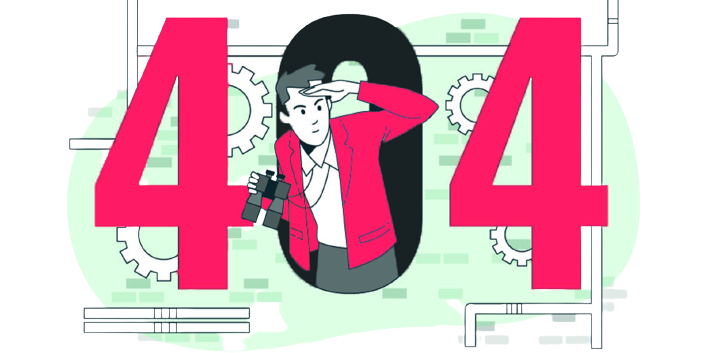
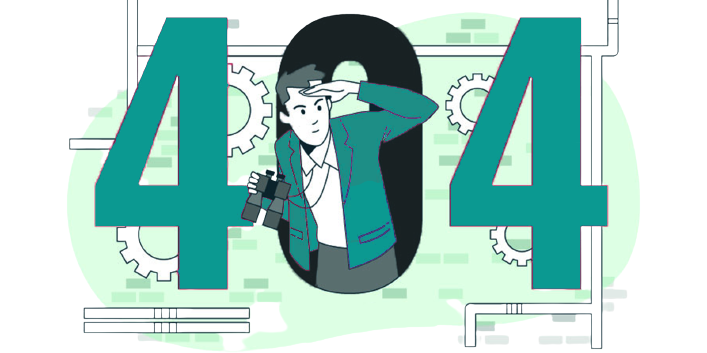
project update

Changed region(s): [[0.1245, 0.0312, 0.6223, 0.8414], [0.6223, 0.0312, 0.8713, 0.8414]]

diff --git a/src/data/projectData.js b/src/data/projectData.js
@@ -1,9 +1,6 @@
 import ReactRestaurantSinglePage from '../assets/project/react-restaurant-single-page.png';
 import ReactTmdbMovie from '../assets/project/react-tmdb-movie.png';
-import ReactCountryCovid19 from '../assets/project/react-country-covid19.png';
 import ReactFirebaseBlog from '../assets/project/react-firebase-blog.png';
-import BusinessUi1 from '../assets/project/business-ui-1.png';
-import BusinessUi2 from '../assets/project/business-ui-2.png';
 
 const projectData = [
     {
@@ -34,19 +31,6 @@ const projectData = [
     },
     {
         id:3,
-        image: ReactCountryCovid19,
-        tech: [
-            { name: 'React' },
-            { name: 'RapidAPI' },
-            { name: 'Tailwind' }
-        ],
-        title: 'Country Covid Statistic',
-        liveUrl: 'https://country-covid19-statistics.netlify.app/',
-        githubUrl: 'https://github.com/kadirula/country-covid-statistics',
-        homeShow: true
-    },
-    {
-        id:4,
         image: ReactFirebaseBlog,
         tech: [
             { name: 'React' },
@@ -56,32 +40,6 @@ const projectData = [
         title: 'Firebase Blog',
         liveUrl: 'https://firebase-react-blog-app.netlify.app/',
         githubUrl: 'https://github.com/kadirula/firebase-react-blog-app',
-        homeShow: true
-    },
-    {
-        id:5,
-        image: BusinessUi1,
-        tech: [
-            { name: 'Html' },
-            { name: 'Css' },
-            { name: 'JavaScript' }
-        ],
-        title: 'Business UI - 1',
-        liveUrl: 'https://project-business-ui1.netlify.app/',
-        githubUrl: 'https://github.com/kadirula/business-ui-1',
-        homeShow: true
-    },
-    {
-        id:6,
-        image: BusinessUi2,
-        tech: [
-            { name: 'Html' },
-            { name: 'Css' },
-            { name: 'JavaScript' }
-        ],
-        title: 'Business UI - 2',
-        liveUrl: 'https://project-business-ui2.netlify.app/',
-        githubUrl: 'https://github.com/kadirula/business-ui-2',
         homeShow: true
     },
 ];

diff --git a/src/data/workExperienceData.js b/src/data/workExperienceData.js
@@ -1,5 +1,17 @@
 const workExperiences = [
     {
+        title: 'Livasoft Yazılım A.Ş',
+        subtitle: 'Frontend Developer',
+        date: '10/2023 - Continue',
+        desc: 'Lorem ipsum dolor sit amet consectetur adipisicing elit. Deserunt commodi, sequi earum aut voluptates dolor! Lorem ipsum dolor sit amet consectetur adipisicing elit. Deserunt commodi, sequi earum aut voluptates dolor!'
+    },
+    {
+        title: 'Limonist Meta Teknoloji A.Ş',
+        subtitle: 'Frontend Developer',
+        date: '01/2023 - 10/2023',
+        desc: 'Lorem ipsum dolor sit amet consectetur adipisicing elit. Deserunt commodi, sequi earum aut voluptates dolor! Lorem ipsum dolor sit amet consectetur adipisicing elit. Deserunt commodi, sequi earum aut voluptates dolor!'
+    },
+    {
         title: 'Daynex İnternet Teknolojileri A.Ş.',
         subtitle: 'Frontend Developer',
         date: '07/2021 - 02/2022',

diff --git a/public/index.html b/public/index.html
@@ -7,9 +7,6 @@
   <meta name="viewport" content="width=device-width, initial-scale=1" />
   <meta name="theme-color" content="#000000" />
   <meta name="description" content="Web site created using create-react-app" />
-  <link rel="apple-touch-icon" href="%PUBLIC_URL%/logo192.png" />
-
-  <link rel="manifest" href="%PUBLIC_URL%/manifest.json" />
 
   <!-- Google Fonts => Poppins  -->
   <link href="https://fonts.googleapis.com/css2?family=Poppins:wght@200;300;400;500;600;700&display=swap" rel="stylesheet">

diff --git a/src/sass/layout/_header.scss b/src/sass/layout/_header.scss
@@ -13,7 +13,7 @@
         left: 0;
         top: -200%;
         z-index: -1;
-        background-color: #000;
+        background-color: #1a1b21;
         transition: top 0.5s;
     }
     &.sticky{
@@ -119,7 +119,7 @@
             margin-left: 0;
         }
         img {
-            max-width: 75px;
+            max-width: 150px;
             @include breakpoints(md){
                 max-width: 50px;
             }

diff --git a/src/sass/_variable.scss b/src/sass/_variable.scss
@@ -1,4 +1,4 @@
-$color-theme: #FF014F;
+$color-theme: #0b9991;
 $color-bg: #212428;
 $color-text: #C4CFDE;
 $color-text-light: #fff;
